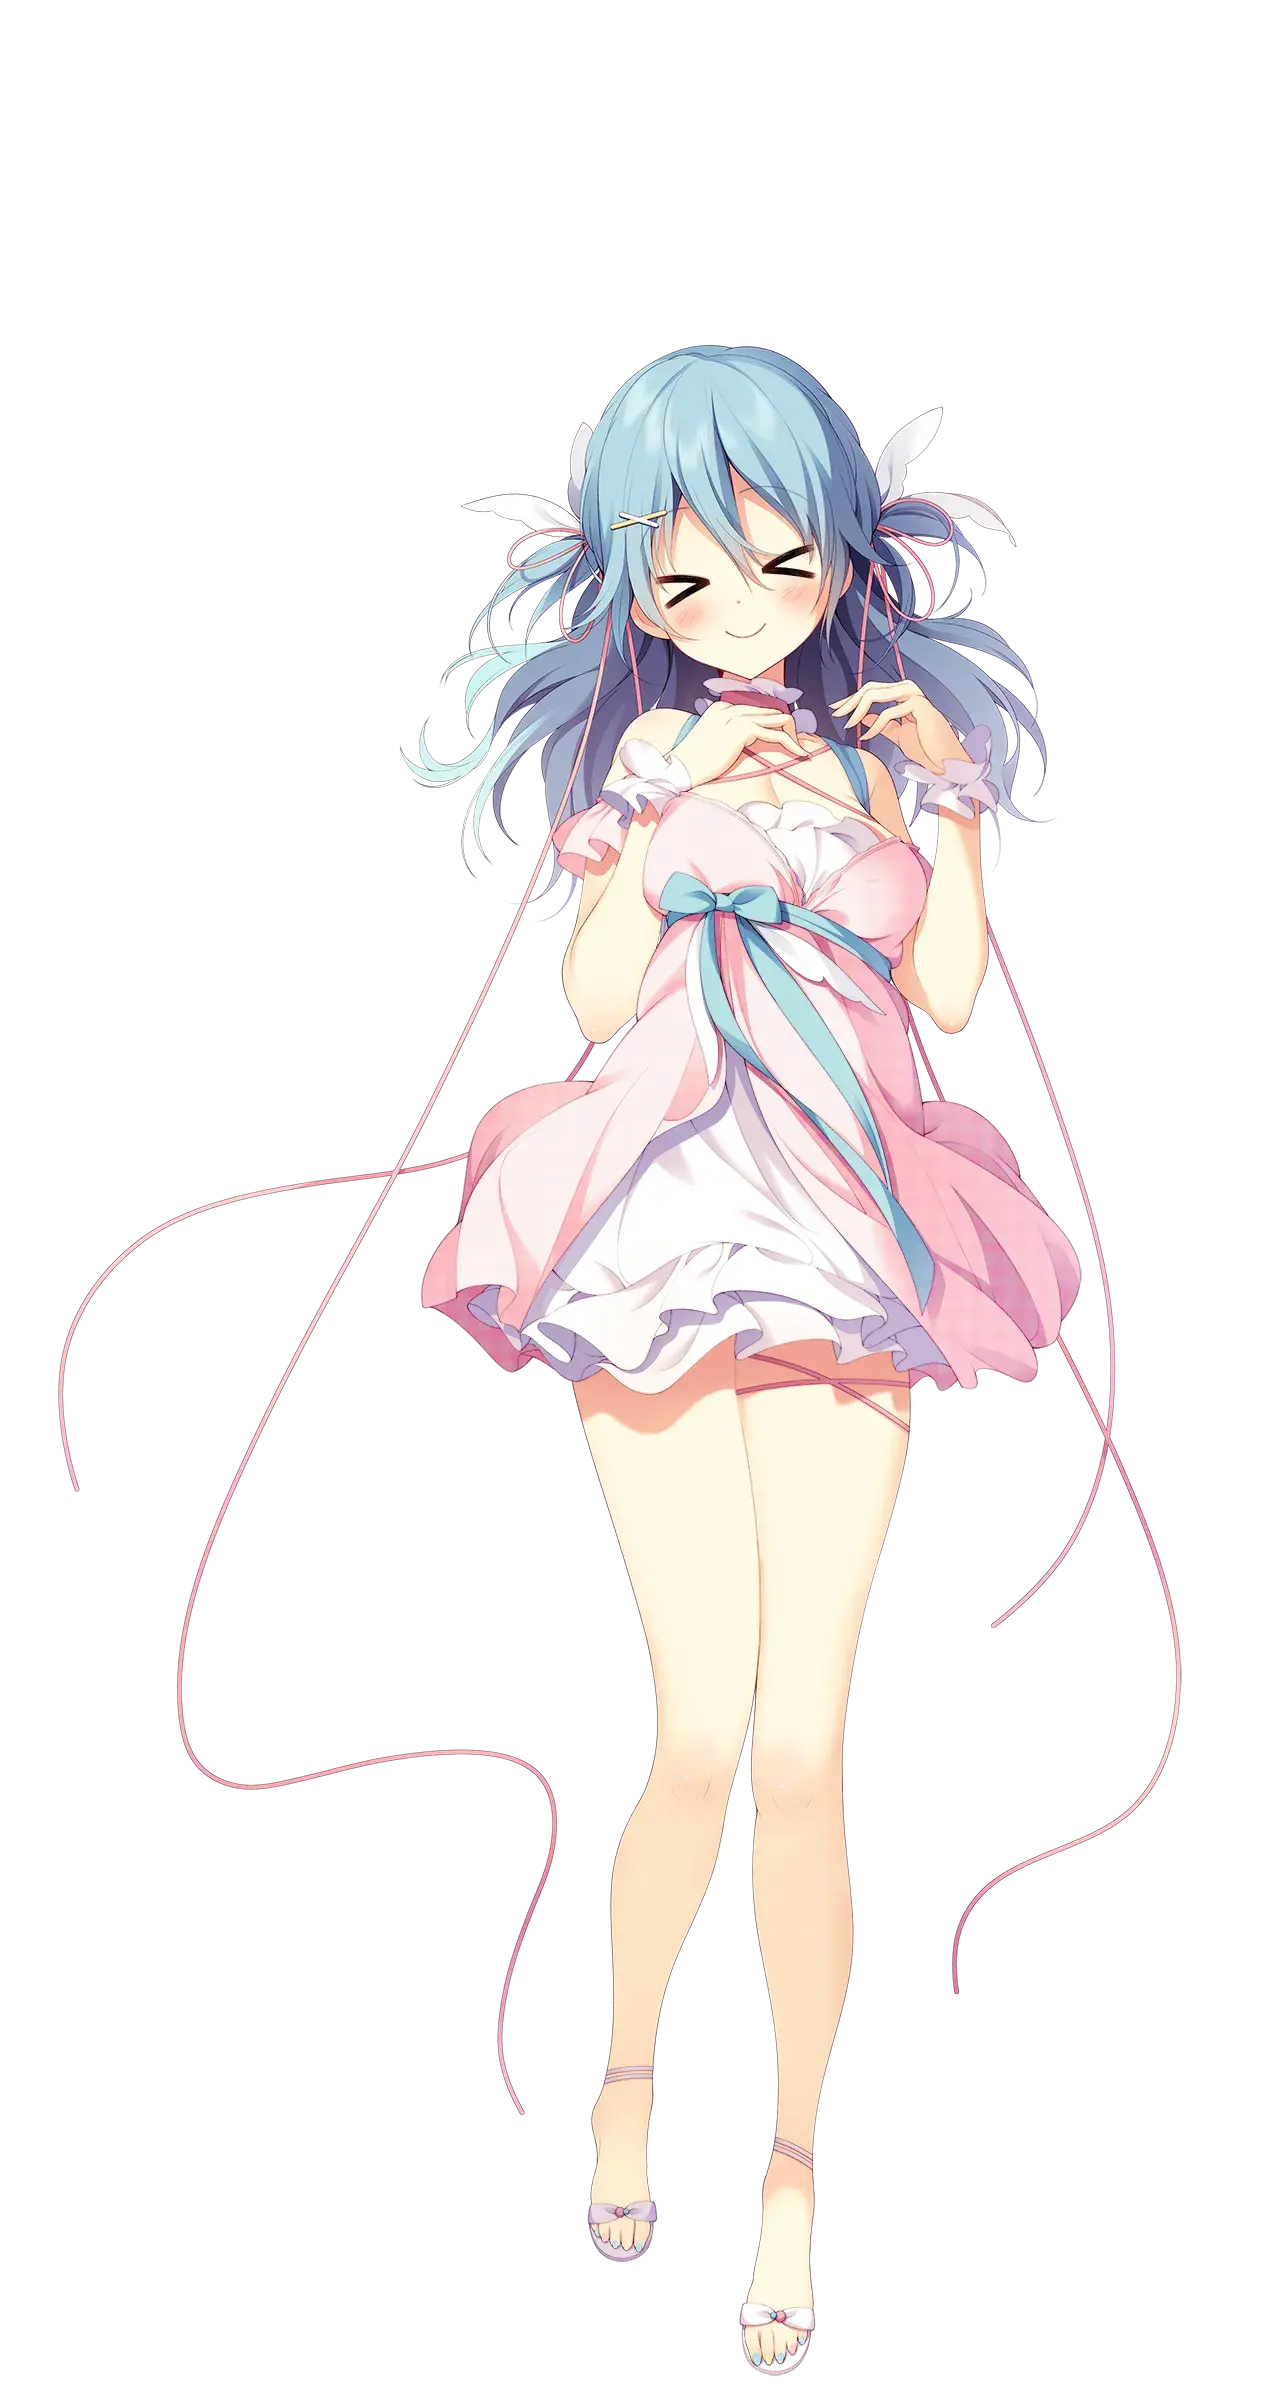
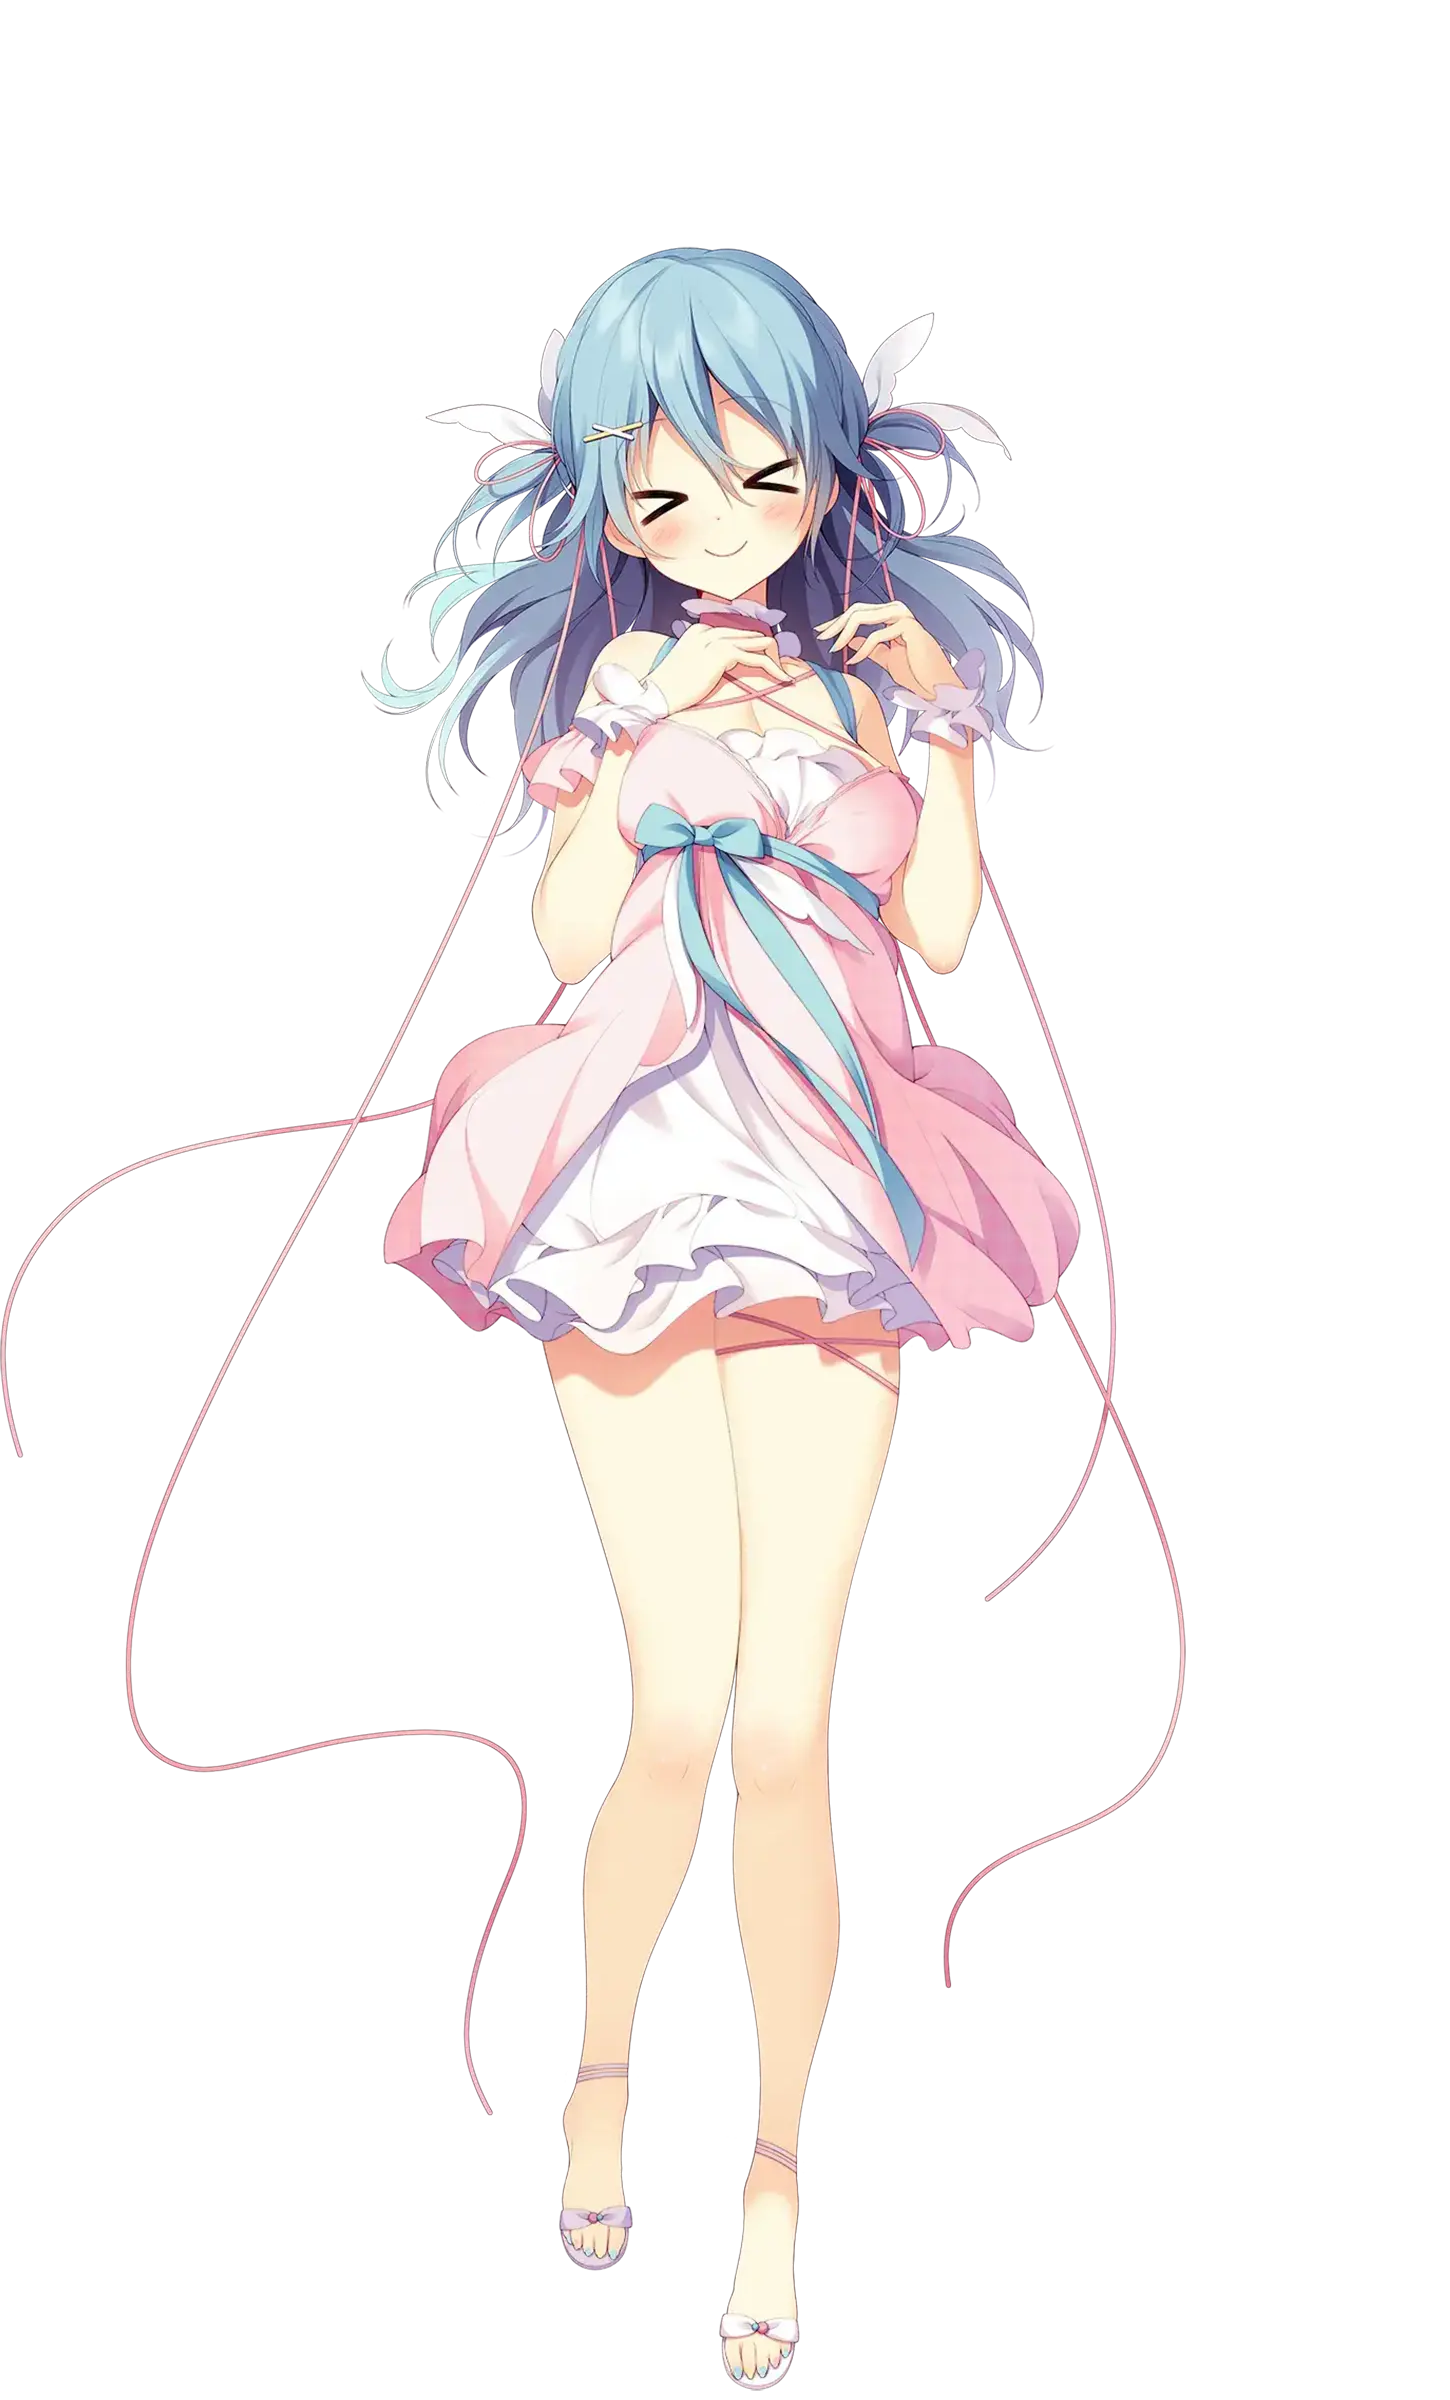
立繪調整

diff --git a/source/_posts/Meikei no Lupercalia.md b/source/_posts/Meikei no Lupercalia.md
@@ -375,11 +375,10 @@ https://www.ryuugames.com/meikei-no-lupercalia-free-download/
       /*-webkit-backdrop-filter: unset;
     backdrop-filter: unset;*/
     }
-    .sp-character .char-overlay {
+      .sp-character .char-overlay {
       min-height: 350px;
-      background-size: 200px;
-      /* background-position: bottom 0px right 0px; */
-      background-size: auto;
+      background-size: 300px;
+      background-position: top 0px right 0px;
     }
     :root { /* 配色 */
       --chara-card-color: #ffffff87;
